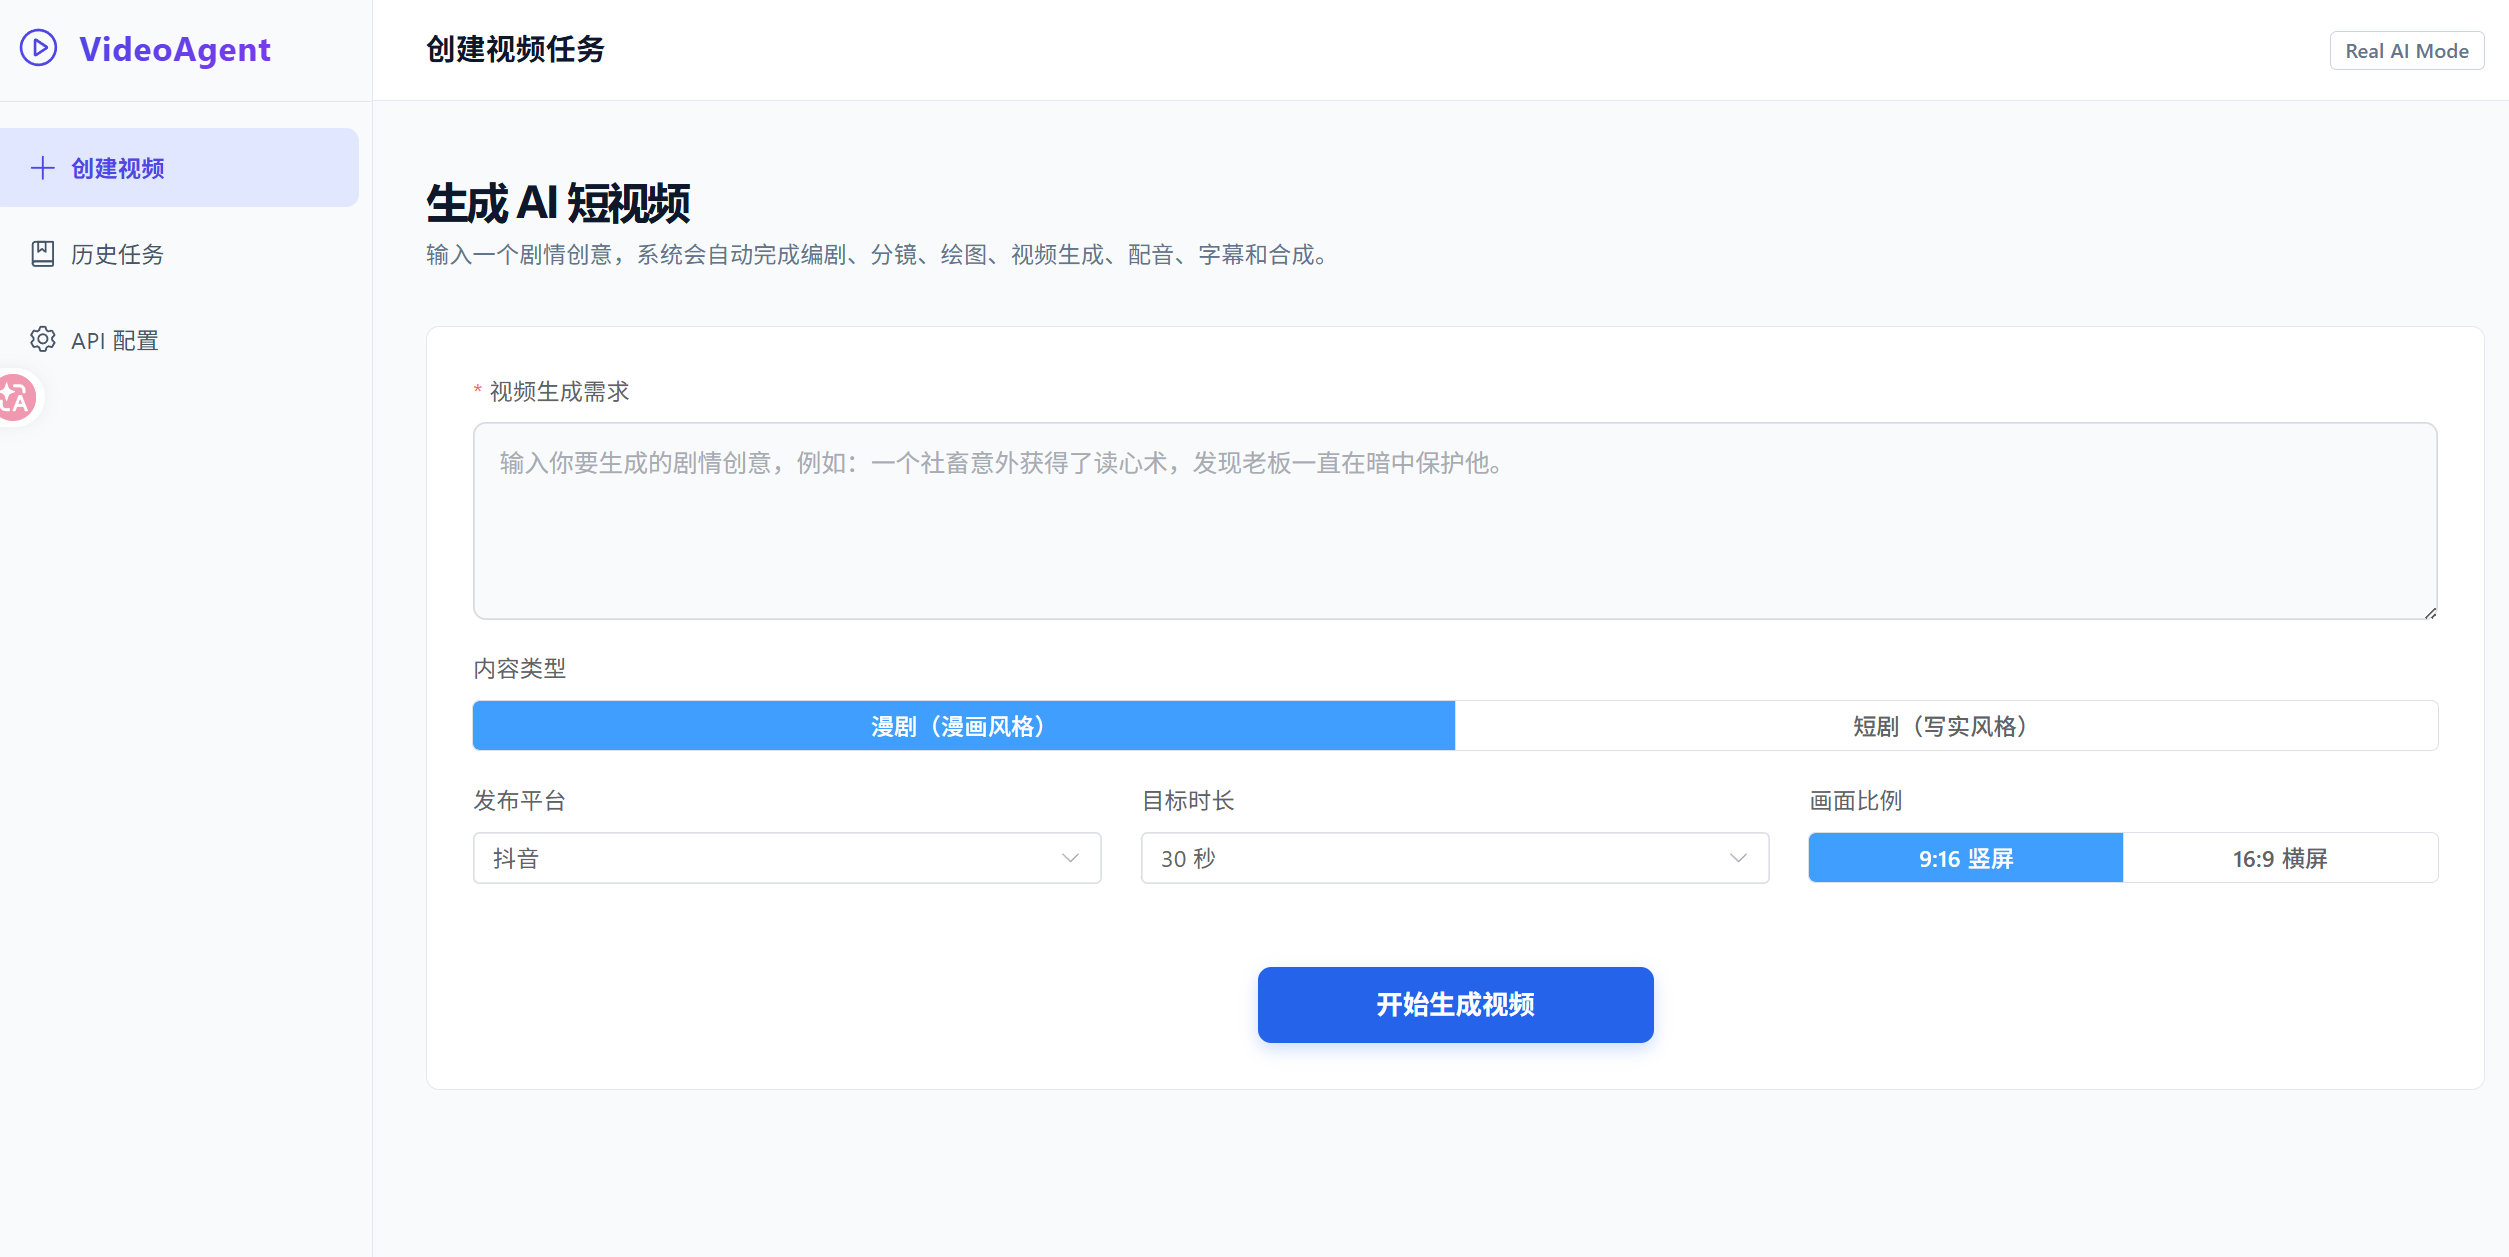
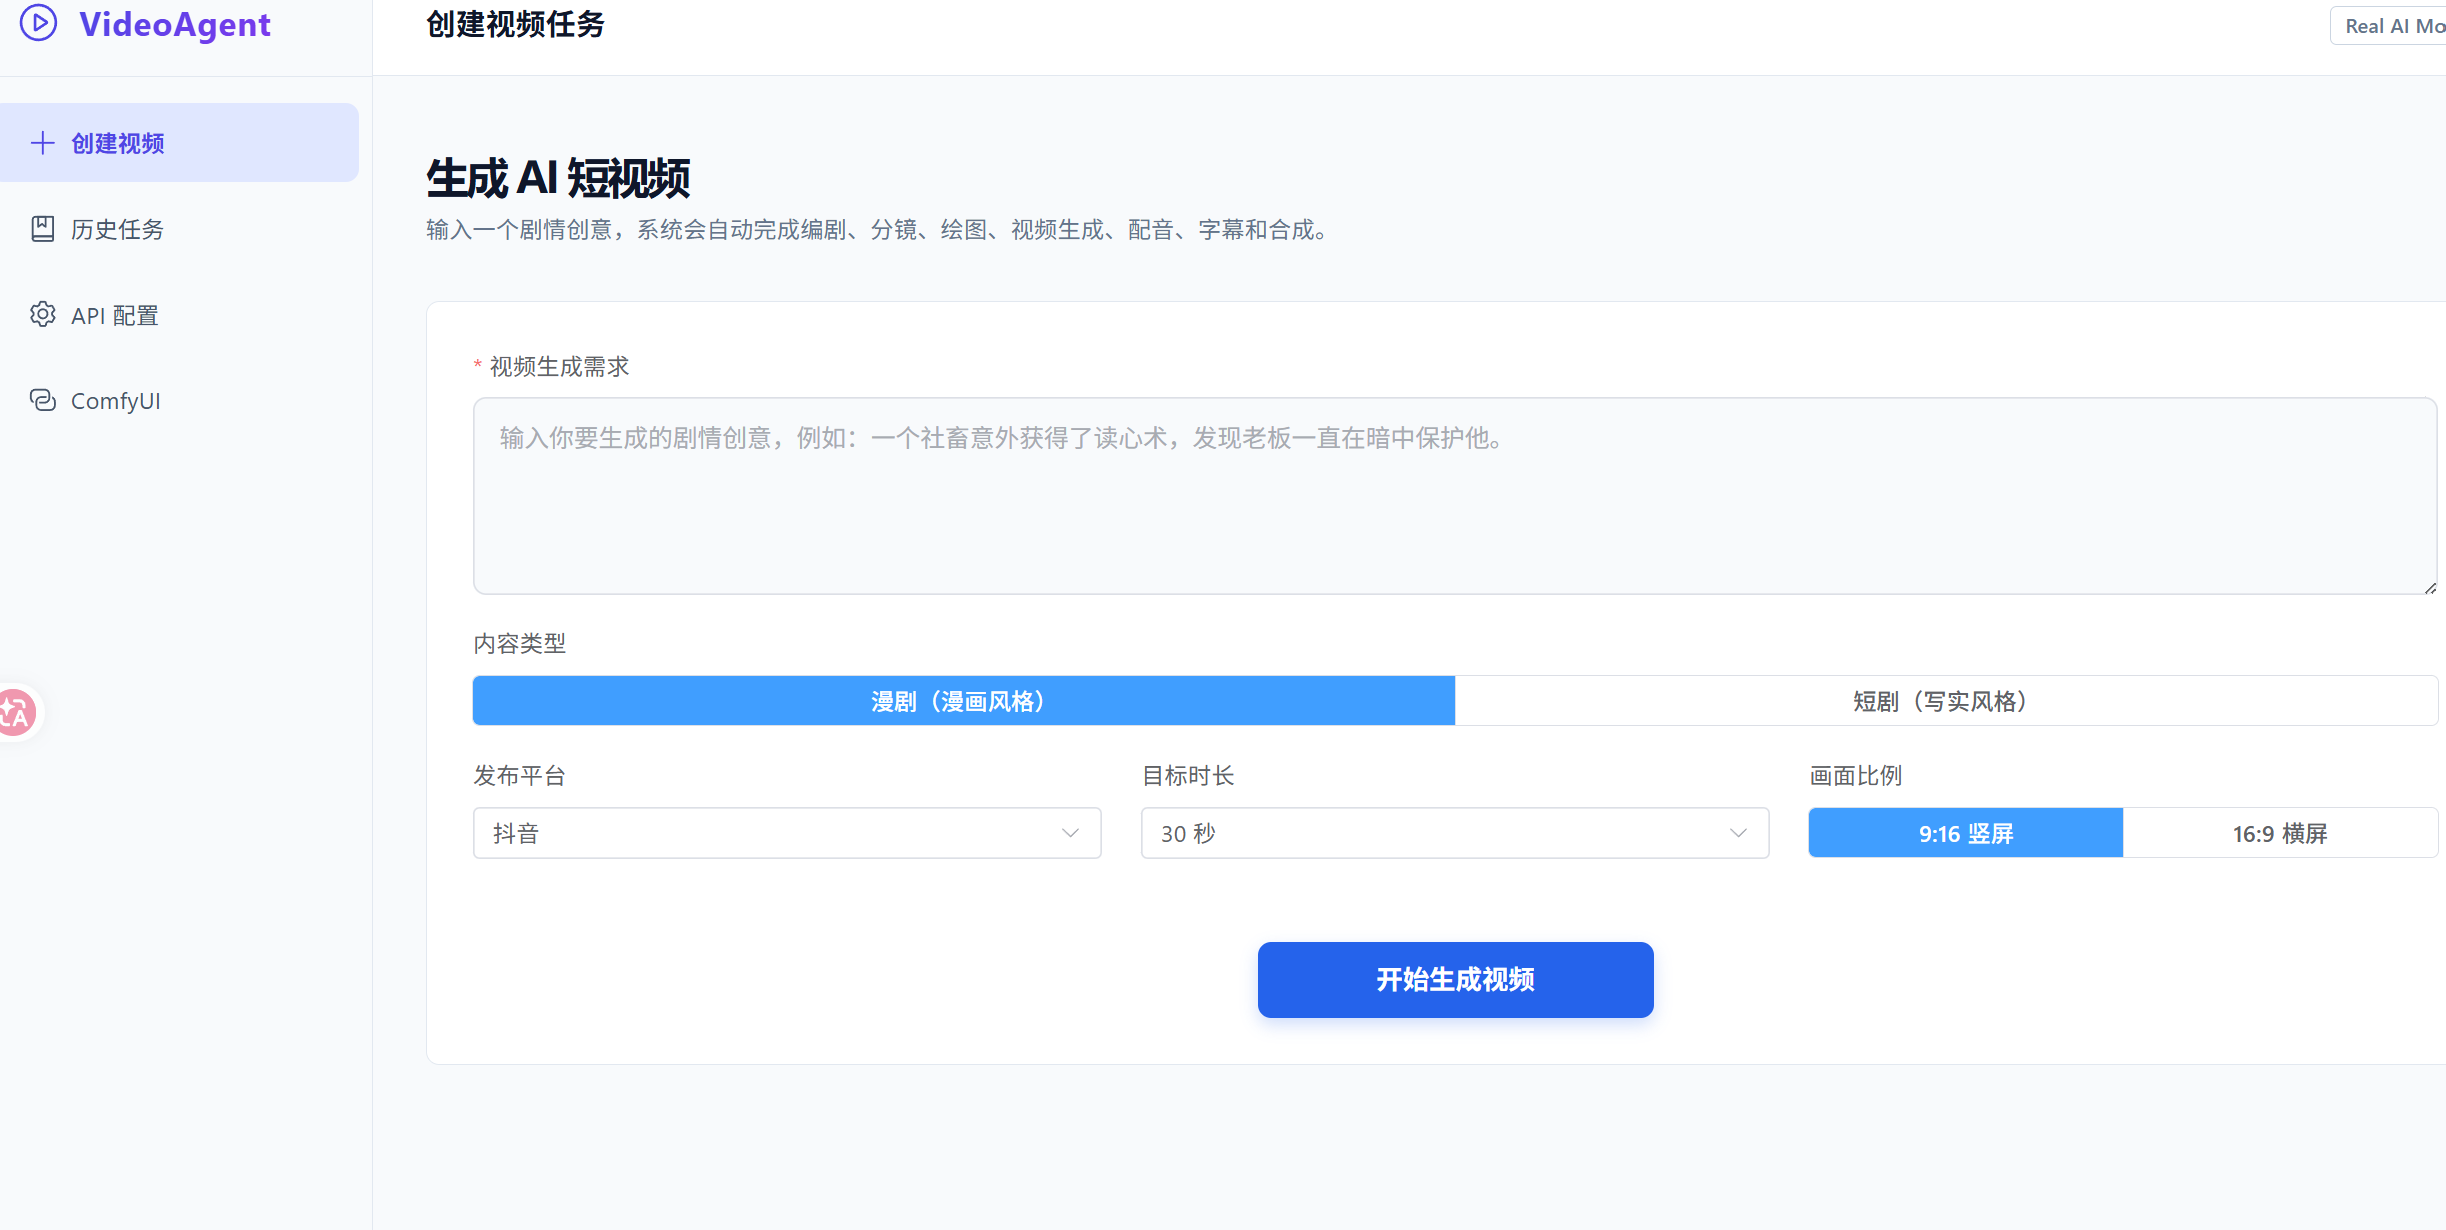
docs: 修正智能体数量13→12，更新架构图与代码对齐

diff --git a/VideoAgent_项目设计/03_前端页面与UI设计.md b/VideoAgent_项目设计/03_前端页面与UI设计.md
@@ -6,11 +6,9 @@
 
 | 页面 | 路由 | 说明 |
 |------|------|------|
-| 创建视频 | /create | 输入主题，选择参数 |
-| 任务进度 | /progress/:id | 展示 12 个 Agent 状态卡片 |
+| 创建视频 | /create | 输入主题，选择参数（时长/比例/风格/平台） |
+| 任务进度 | /progress/:id | 展示 12 个 Agent 状态卡片，点击查看详情 |
 | 视频预览 | /preview/:id | 播放 final.mp4，下载素材 |
-
-（分镜编辑、历史任务、系统设置等页面为预留设计，当前版本聚焦核心流程）
 
 ## 实现组件
 
@@ -18,30 +16,50 @@
 |------|------|------|
 | BasicLayout | layouts/BasicLayout.vue | 左侧菜单 + 顶部栏布局 |
 | TaskProgressBar | components/TaskProgressBar.vue | 整体进度条 |
-| AgentStatusCard | components/AgentStatusCard.vue | Agent 状态卡片（等待/处理中/完成/失败） |
-| VideoPlayerCard | components/VideoPlayerCard.vue | 视频播放器组件 |
+| AgentStatusCard | components/AgentStatusCard.vue | Agent 状态卡片 |
+| VideoPlayerCard | components/VideoPlayerCard.vue | 视频播放器 |
 
-## Agent 状态映射
+## 进度判断逻辑
 
 ```
-等待中(waiting)    → 灰色，半透明
-处理中(running)    → 蓝色，脉冲动画
-完成(success)      → 绿色，左框线
-失败(failed)       → 红色
+const getAgentStatus = (agent) => {
+  // 1. 全局失败 → 显示失败
+  // 2. 全局成功 → 全部完成
+  // 3. 进度超过阈值+2 → 已完成（优先于 current_agent 匹配）
+  // 4. current_agent 匹配 → 运行中
+  // 5. 进度刚好达到阈值 → 已完成
+  // 6. 否则 → 等待中
+}
 ```
 
-## 交互流程
+避免智能体完成但 `current_agent` 仍指向它时错误显示"运行中"。
 
-1. 用户在创建页输入需求 → 点击生成
-2. 跳转到进度页，`setInterval(2000ms)` 轮询 `/progress`
-3. Agent 卡片自动更新状态
-4. 已完成 Agent 可点击查看详情（弹出 Dialog）
-5. 任务完成 → 显示"查看视频"按钮 → 跳转到预览页
-6. 任务失败 → 显示"继续生成"按钮（保留已有进度重新生成）
+## 数据预缓存
+
+- 轮询进度时自动预拉取已完成智能体的详情数据
+- 点击卡片时直接从缓存读取，零等待
+- 缓存未命中时回退到 API 请求
+
+## 智能体卡片描述
+
+| 智能体 | 描述 |
+|--------|------|
+| TaskPlannerAgent | 解析用户输入，规划视频的主题、时长、画风风格、输出比例和平台配置 |
+| ScriptAgent | 根据规划主题，调用 DeepSeek 生成口播文本和发布文案 |
+| StoryboardAgent | 将口播脚本文本拆分为连续分镜，每个分镜包含配音文本和字幕文本 |
+| DialoguePolishAgent | DeepSeek 精修每个分镜的配音文本和字幕文本 |
+| PromptAgent | 根据每个镜头描述，生成图片提示词和视频运动提示词 |
+| ImageAgent | 调用图片模型生成每个镜头的底图素材 |
+| VideoAgent | 根据底图和运动提示词，调用视频模型生成动态片段 |
+| VoiceAgent | 提取每个分镜的配音文本，调用 edge-tts 生成独立配音文件 |
+| SubtitleAgent | 按分镜时间轴组装 SRT 字幕文件（使用配音原文） |
+| EditorAgent | 拼接视频/图片素材，挂载独立配音音轨，烧录字幕 |
+| QualityAgent | 校验 final.mp4 文件是否存在 |
+| ExportAgent | 保存结果到数据库 |
 
 ## API 接口
 
-baseURL: `/api/video`
+baseURL: `/api/video`，超时 60s
 
 | 方法 | 路径 | 说明 |
 |------|------|------|

diff --git a/README.md b/README.md
@@ -19,24 +19,24 @@
 *系统总体架构：Vue 前端 → FastAPI 后端 → 多智能体协作 → MongoDB 存储 + 本地文件系统*
 
 ![生成流程图](backend/image/流程图.png)
-*13 个智能体在 LangGraph StateGraph 中编排执行（串行 + Send 并行分支 + 条件分支）*
+*12 个智能体在 LangGraph StateGraph 中编排执行（串行 + Send 并行分支 + 条件分支）*
 
 ---
 
 ## 系统架构
 
-系统由 13 个智能体在 LangGraph StateGraph 中编排执行：
+系统由 12 个智能体在 LangGraph StateGraph 中编排执行：
 
 ```
 第一阶段（串行）：
-用户输入 → TaskPlanner → Script → Storyboard → DialoguePolish → Prompt
+TaskPlanner → Script → Storyboard → DialoguePolish → Prompt
 
-第二阶段（并行）：
-                  ┌── Image → Video ──┐
-Prompt ──Send()──┼───────────────────┼──→ Subtitle
-                  └── Voice ──────────┘
+第二阶段（并行，LangGraph Send）：
+                ┌── Image → Video → Subtitle ──┐
+Prompt ──Send()─┼──────────────────────────────┤
+                └── Voice（独立运行，不触发后续）──┘
 
-第三阶段（串行 + 条件分支）：
+第三阶段（串行）：
 Subtitle → Editor → Quality ──成功──→ Export → final.mp4
                           └──失败──→ Editor（重试）
 ```
@@ -48,17 +48,17 @@ Subtitle → Editor → Quality ──成功──→ Export → final.mp4
 | 智能体 | 职责 | 调用服务 |
 |--------|------|---------|
 | TaskPlannerAgent | 解析用户需求，生成任务规划 | DeepSeek |
-| ScriptAgent | 生成视频脚本 | DeepSeek |
-| StoryboardAgent | 生成分镜（场景、时长、画面描述） | DeepSeek |
-| DialoguePolishAgent | 精修对白，使其口语化适合配音 | DeepSeek |
-| PromptAgent | 生成图片/视频提示词、动作节拍 | DeepSeek |
-| ImageAgent | 生成每个分镜的首帧图片（4路并发） | **Doubao Seedream** / Qwen-Image / ComfyUI |
-| VideoAgent | 将图片转为动态视频（3路并发，审核拦截自动AI重写重试） | **Doubao Seedance** / Wan / Vidu / ComfyUI |
-| VoiceAgent | 为每个分镜生成独立配音（不覆盖分镜时长） | edge-tts |
-| SubtitleAgent | 生成 SRT 字幕文件 | 本地生成 |
-| EditorAgent | 合成最终视频（分镜独立配音，音画自动对齐） | MoviePy + FFmpeg |
-| QualityAgent | 检查最终视频文件 | 文件检查 |
-| ExportAgent | 导出最终结果到数据库 | — |
+| ScriptAgent | 生成视频脚本和发布文案 | DeepSeek |
+| StoryboardAgent | 拆分为连续分镜，每段≥4秒 | DeepSeek |
+| DialoguePolishAgent | 精修对白和字幕文本 | DeepSeek |
+| PromptAgent | 生成图片/视频提示词、运动节拍 | DeepSeek |
+| ImageAgent | 生成底图（4路并发） | **Doubao Seedream** / Qwen / ComfyUI |
+| VideoAgent | 图生视频（3路并发，审核AI重写重试） | **Doubao Seedance** / Wan / Vidu / ComfyUI |
+| VoiceAgent | 每个分镜独立配音文件 | edge-tts |
+| SubtitleAgent | 组装SRT字幕（使用voiceover原文） | 本地 |
+| EditorAgent | 合成视频+字幕，配音超长时加速语音 | MoviePy + FFmpeg |
+| QualityAgent | 检查final.mp4是否存在 | 文件检查 |
+| ExportAgent | 保存结果到数据库 | — |
 
 ---
 
@@ -67,7 +67,7 @@ Subtitle → Editor → Quality ──成功──→ Export → final.mp4
 ```
 video/
 ├── backend/
-│   ├── agents/           # 13 个智能体
+│   ├── agents/           # 12 个智能体
 │   │   ├── pipeline.py   # LangGraph StateGraph 编排
 │   │   ├── task_planner_agent.py
 │   │   ├── script_agent.py

diff --git a/VideoAgent_项目设计/02_智能体与后端设计.md b/VideoAgent_项目设计/02_智能体与后端设计.md
@@ -1,6 +1,6 @@
 # 02_智能体与后端设计
 
-> 详细信息见 `项目整体设计方案.md`。本文档记录关键设计变更。
+> 详细信息见 `项目整体设计方案.md`。本文档记录与代码同步的关键设计。
 
 ## Agent 列表
 
@@ -8,38 +8,42 @@
 |---|-------|----------|------|
 | 1 | TaskPlannerAgent | DeepSeek | 解析用户输入为结构化任务 |
 | 2 | ScriptAgent | DeepSeek | 生成口播脚本和发布文案 |
-| 3 | StoryboardAgent | DeepSeek | 拆分分镜，每段≥4秒 |
-| 4 | DialoguePolishAgent | DeepSeek | 精修对白文本和字幕 |
-| 5 | PromptAgent | DeepSeek | 生成 image_prompt / video_prompt |
-| 6 | ImageAgent | Seedream 5.0 Lite | 4路并发生成图片，支持横竖屏 |
-| 7 | VideoAgent | Seedance 1.5 Pro | 3路并发，审核拦截自动AI重写重试 |
+| 3 | StoryboardAgent | DeepSeek | 拆分分镜，每段≥4秒，时长范围 target~target+30 |
+| 4 | DialoguePolishAgent | DeepSeek | 精修对白文本，subtitle 直接使用 voiceover 原文 |
+| 5 | PromptAgent | DeepSeek | 生成 image_prompt/video_prompt，支持横竖屏 |
+| 6 | ImageAgent | Seedream 5.0 Lite | 4路并发，支持横竖屏（2848x1600/1600x2848） |
+| 7 | VideoAgent | Seedance 1.5 Pro | 3路并发，审核拦截→DeepSeek重写提示词→重试（最多2次），重写保留横竖屏比例 |
 | 8 | VoiceAgent | edge-tts | 每个分镜独立配音文件 |
-| 9 | SubtitleAgent | 本地 | 按分镜时间轴生成 SRT |
-| 10 | EditorAgent | MoviePy+FFmpeg | 合成视频，独立音轨自动对齐时长 |
-| 11 | QualityAgent | 本地 | 检查 final.mp4 是否存在 |
-| 12 | ExportAgent | 本地 | 保存输出记录到数据库 |
+| 9 | SubtitleAgent | 本地 | 每次重新生成SRT，使用 voiceover 原文 |
+| 10 | EditorAgent | MoviePy+FFmpeg | 配音超长时加速语音（vfx.speedx），视频画面原始速度 |
+| 11 | QualityAgent | 文件检查 | 仅检查 final.mp4 是否存在 |
+| 12 | ExportAgent | MongoDB | 保存输出记录 |
 
 ## 关键设计
 
 ### 异步处理
-- 所有 LLM 调用通过 `anyio.to_thread.run_sync()` 放入线程池
+- 所有 LLM/API 调用通过 `anyio.to_thread.run_sync()` 放入线程池
 - 避免阻塞 asyncio 事件循环，确保 API 可正常响应
 
 ### LangGraph 并行
 - `prompts` 节点后使用 `Send()` 分叉为 `images→video` 和 `voice` 两个并行分支
-- `subtitle` 节点作为屏障汇聚，等待两个分支完成
+- `subtitle` 仅等待 `video` 完成（不等待 `voice`），避免 fan-in 时序错乱
+- `voice` 独立运行，结果直接写入 MongoDB
 - `results` 字段使用 `Annotated[dict, merge_fn]` 处理并发写入
 
 ### 视频生成重试
 1. 检测 `sensitive information` 错误
-2. 调 DeepSeek 重写 motion_prompt（暴力词→中性动作）
+2. 调 DeepSeek 重写 motion_prompt（保留横竖屏比例）
 3. 最多重试 2 次
 4. 仍失败则降级为静态图片
 
 ### 音画同步
-- 每段配音按分镜时长裁剪（`subclip(0, clip.duration)`）
-- 超长音频自动截断，不再音画不同步
+- 配音超长时：加速语音播放（`vfx.speedx`），不裁剪音频，不变速视频
+- 字幕使用 `voiceover` 原文，不再用精简版 `subtitle`
+
+### 时长策略
+- 选择30s→实际30~60s，60s→60~90s，90s→90~120s
+- 不再硬凑精确时长
 
 ### MongoDB 查询优化
-- `find_many` 增加 `filter` 参数，避免全表扫描
-- 所有场景/素材查询改为按 `task_id` 过滤后返回
+- `find_many` 增加 `filter` 参数，按 task_id 过滤后返回

diff --git a/VideoAgent_项目设计/项目整体设计方案.md b/VideoAgent_项目设计/项目整体设计方案.md
@@ -161,7 +161,7 @@ prompts
 ### 7.4 视频合成（EditorAgent）
 
 - 每个分镜从 assets 集合读取独立配音文件
-- 配音时长超出视频时长时自动裁剪（`subclip(0, clip.duration)`）
+- 配音时长超出视频时长时 **加速语音播放**（`vfx.speedx`），保持视频画面原速，不裁剪音频
 - 烧录 SRT 字幕
 - 去掉 AI 视频原声，使用独立配音音轨
 